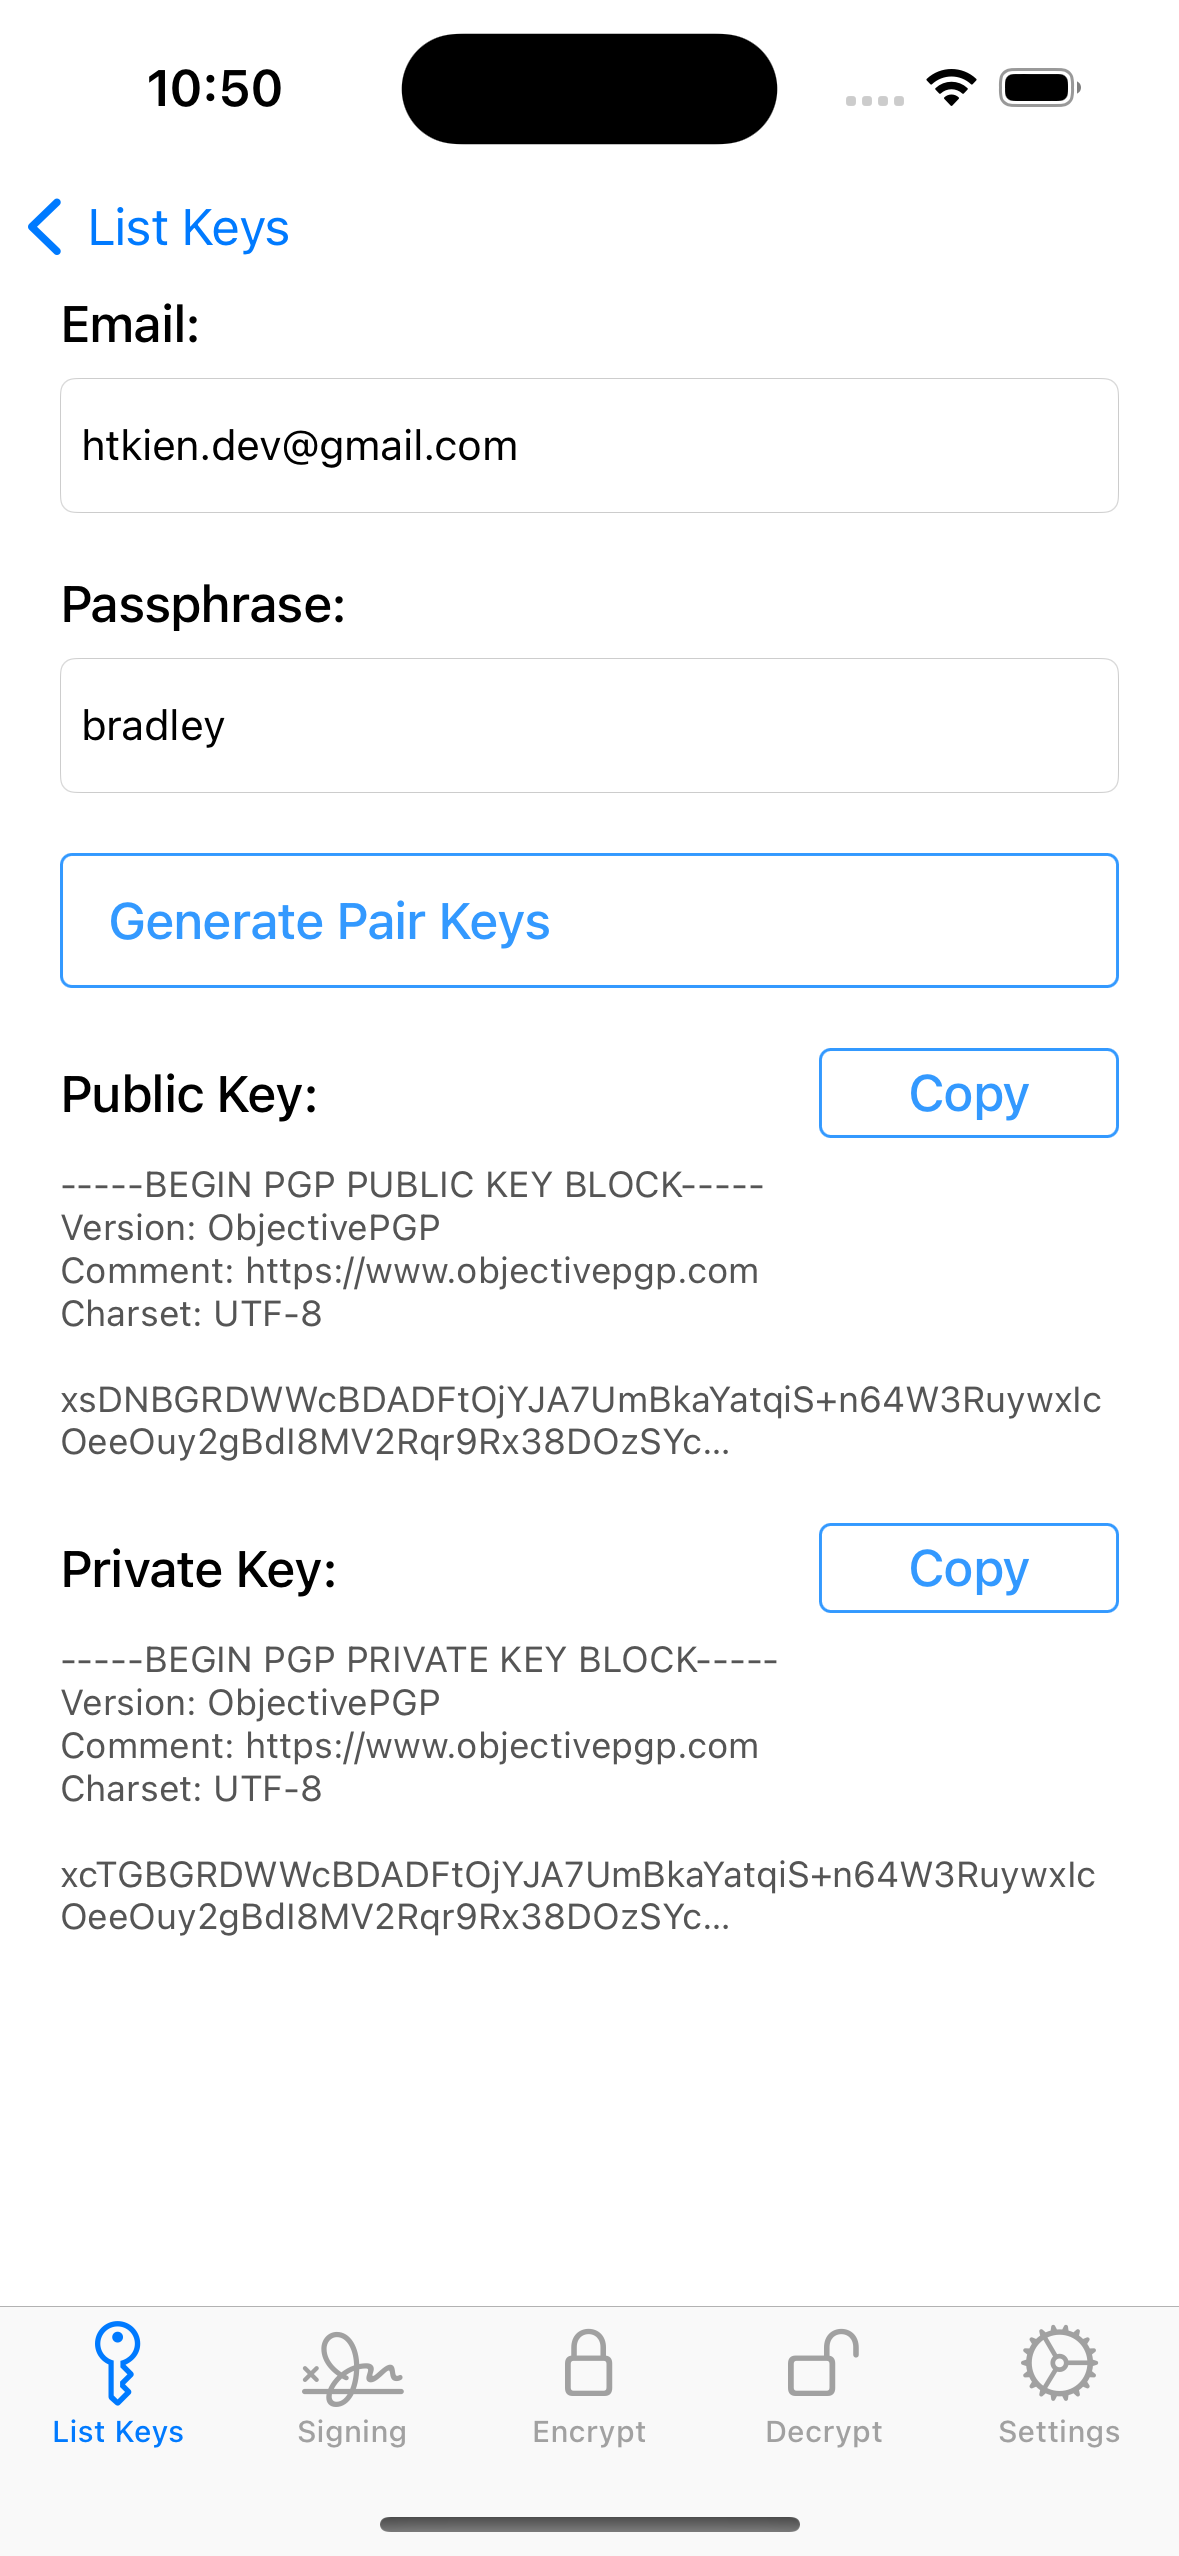
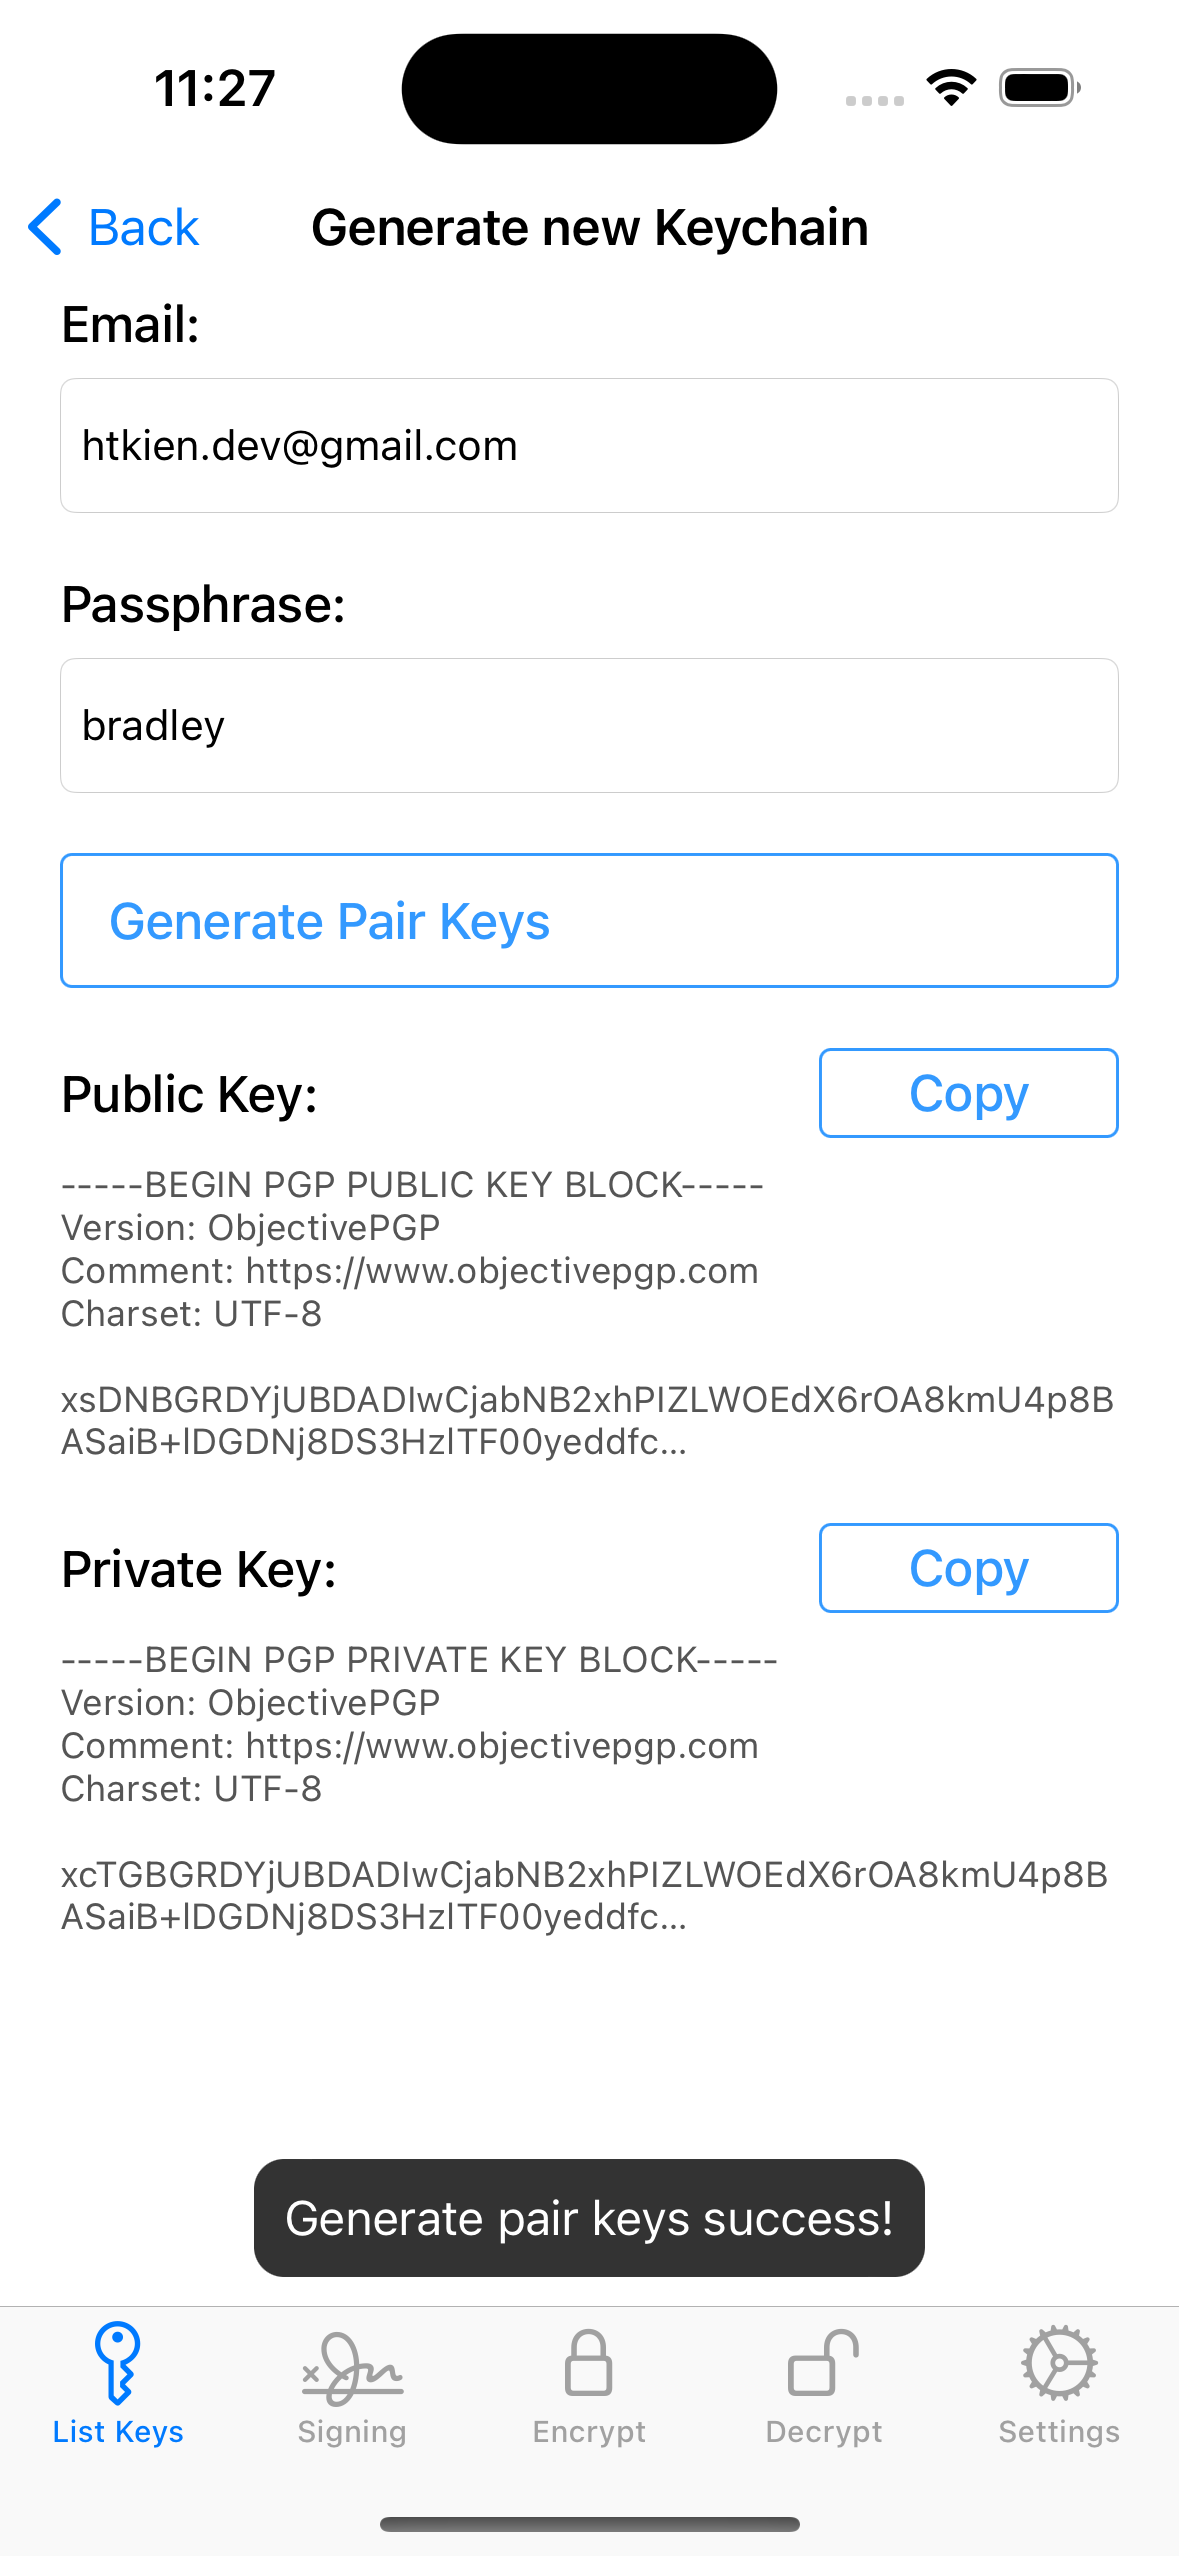
Update

diff --git a/PGP-example/Classes/Scenes/KeyModule/GenerateKeys/GenerateKeysViewController.swift b/PGP-example/Classes/Scenes/KeyModule/GenerateKeys/GenerateKeysViewController.swift
@@ -32,9 +32,7 @@ final class GenerateKeysViewController: BaseViewController {
         hideKeyboardWhenTappedAround()
     }
     
-    override func applyLocalization() {
-        
-    }
+    override func applyLocalization() {}
 }
 
 // MARK: - IBAction
@@ -70,6 +68,6 @@ extension GenerateKeysViewController: PresenterToViewGenerateKeysProtocol {
 
 private extension GenerateKeysViewController {
     func setupUI() {
-        
+        title = "Generate new Keychain"
     }
 }
